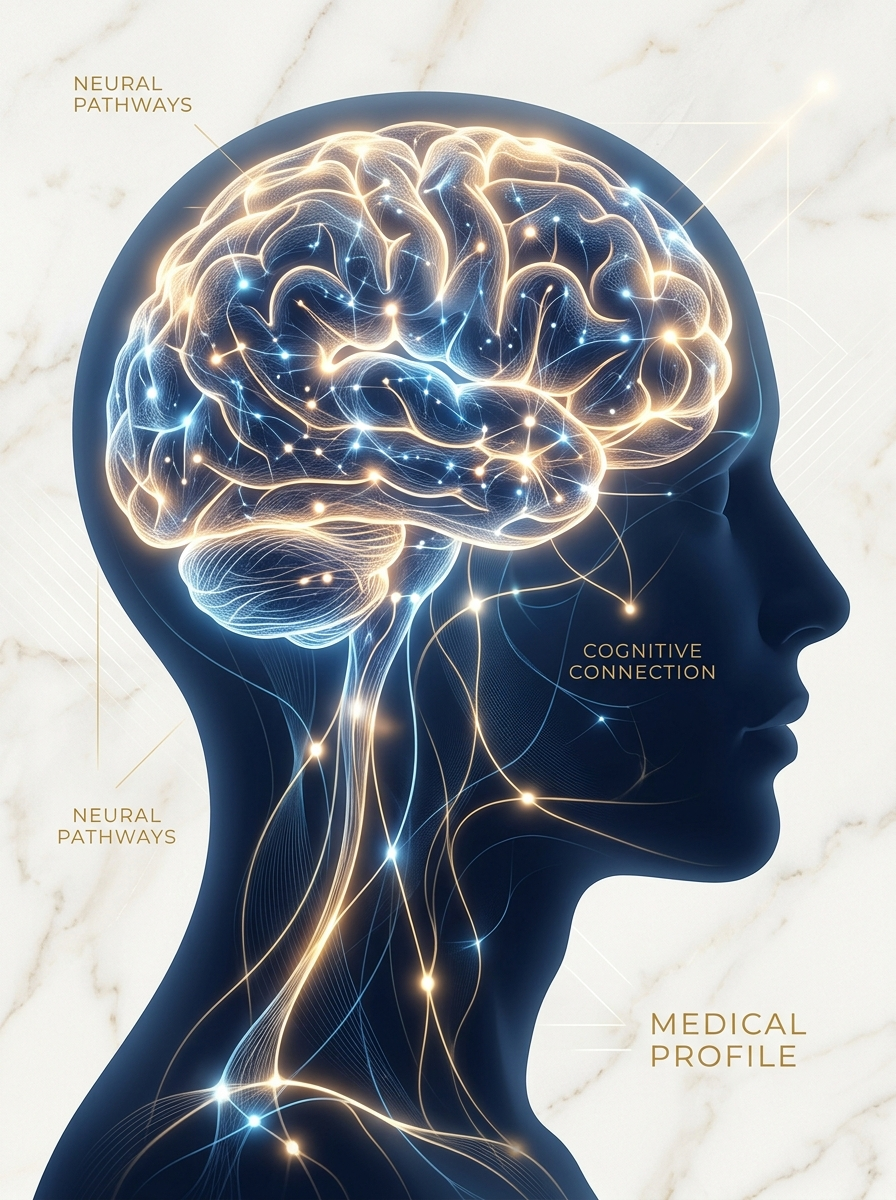
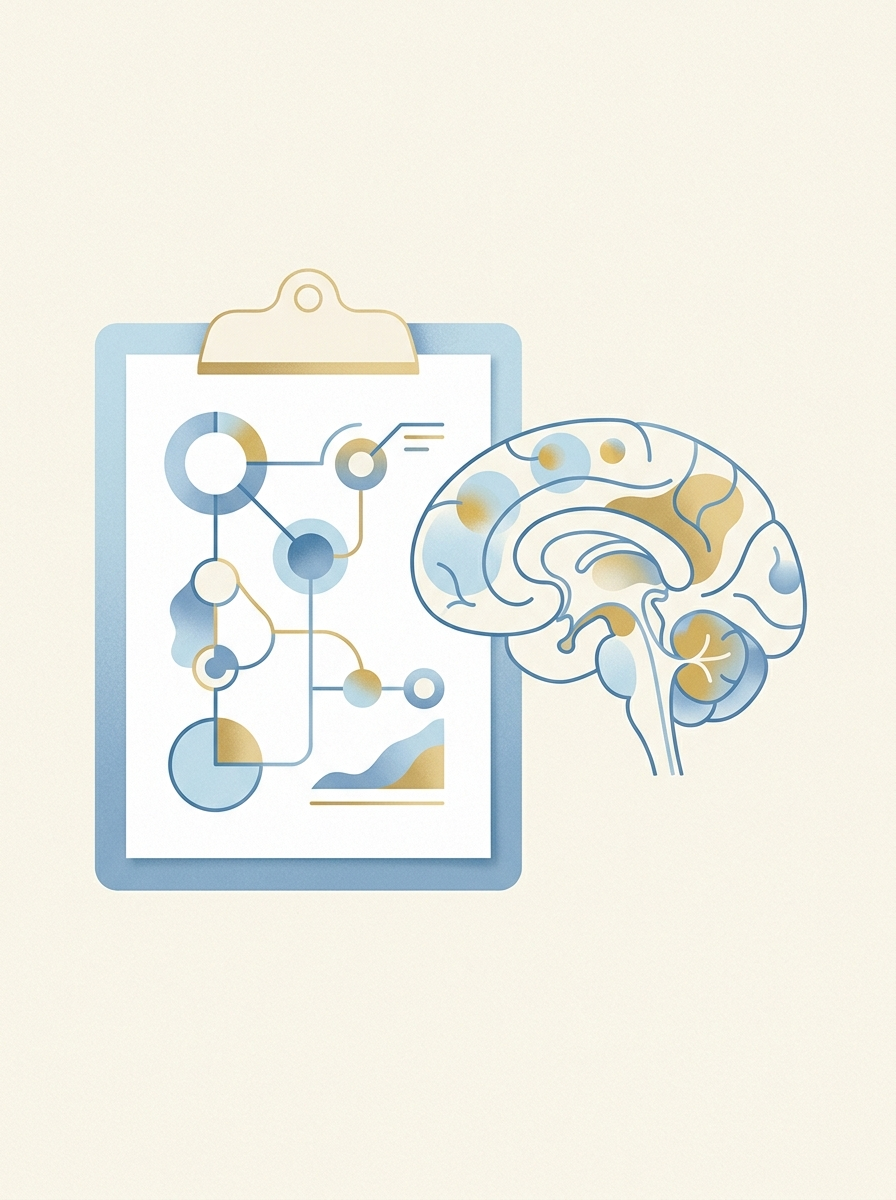
design: opacity 30%, new eval integral image, arteterapia watermark, badge z-index fix

diff --git a/src/index.css b/src/index.css
@@ -754,7 +754,7 @@ section {
   width: 100%;
   height: 100%;
   z-index: 1;
-  opacity: 0.35; /* Increased opacity to 35% as requested */
+  opacity: 0.30;
   pointer-events: none;
   mix-blend-mode: multiply;
 }
@@ -764,6 +764,24 @@ section {
   height: 100%;
   object-fit: cover;
   object-position: center top;
+}
+
+/* Watermark for horizontal cards */
+.service-card-horizontal > *:not(.service-card-watermark) {
+  position: relative;
+  z-index: 2;
+}
+
+.service-card-horizontal .service-card-watermark {
+  position: absolute;
+  top: 0;
+  left: 0;
+  width: 100%;
+  height: 100%;
+  z-index: 1;
+  opacity: 0.30;
+  pointer-events: none;
+  mix-blend-mode: multiply;
 }
 
 /* Card Category Tints & Borders with Strong Contrast */
@@ -817,6 +835,7 @@ section {
   position: absolute;
   top: 1.25rem;
   right: 1.25rem;
+  z-index: 3;
   background-color: var(--color-terracotta);
   color: #FAF6F0;
   font-family: var(--font-display);

diff --git a/src/App.tsx b/src/App.tsx
@@ -657,6 +657,9 @@ Quedo atento/a a su respuesta. ¡Muchas gracias!`;
 
             {/* SPECIAL SERVICE BANNER: TALLERES HORIZONTAL */}
             <div id="service-card-arteterapia" className="service-card-horizontal">
+              <div className="service-card-watermark">
+                <img src="/assets/arteterapia_bg.jpg" alt="" />
+              </div>
               <span className="badge-event">Eventos & Talleres</span>
               <div className="service-horizontal-grid">
                 <div className="service-horizontal-info">